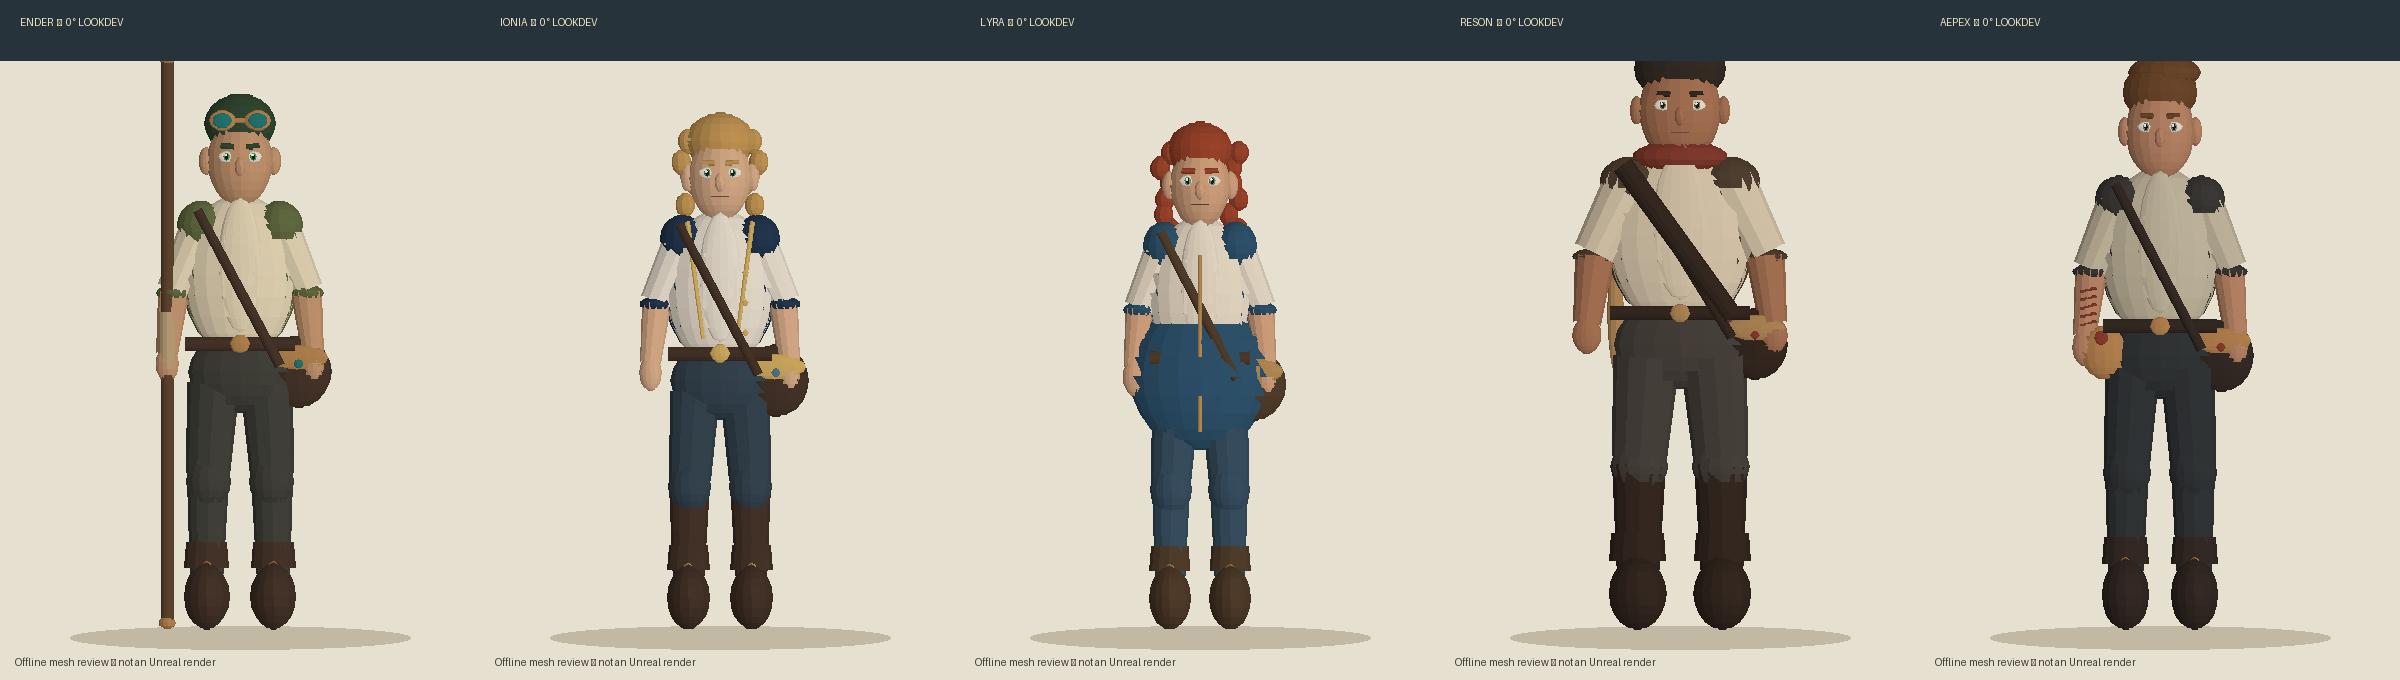
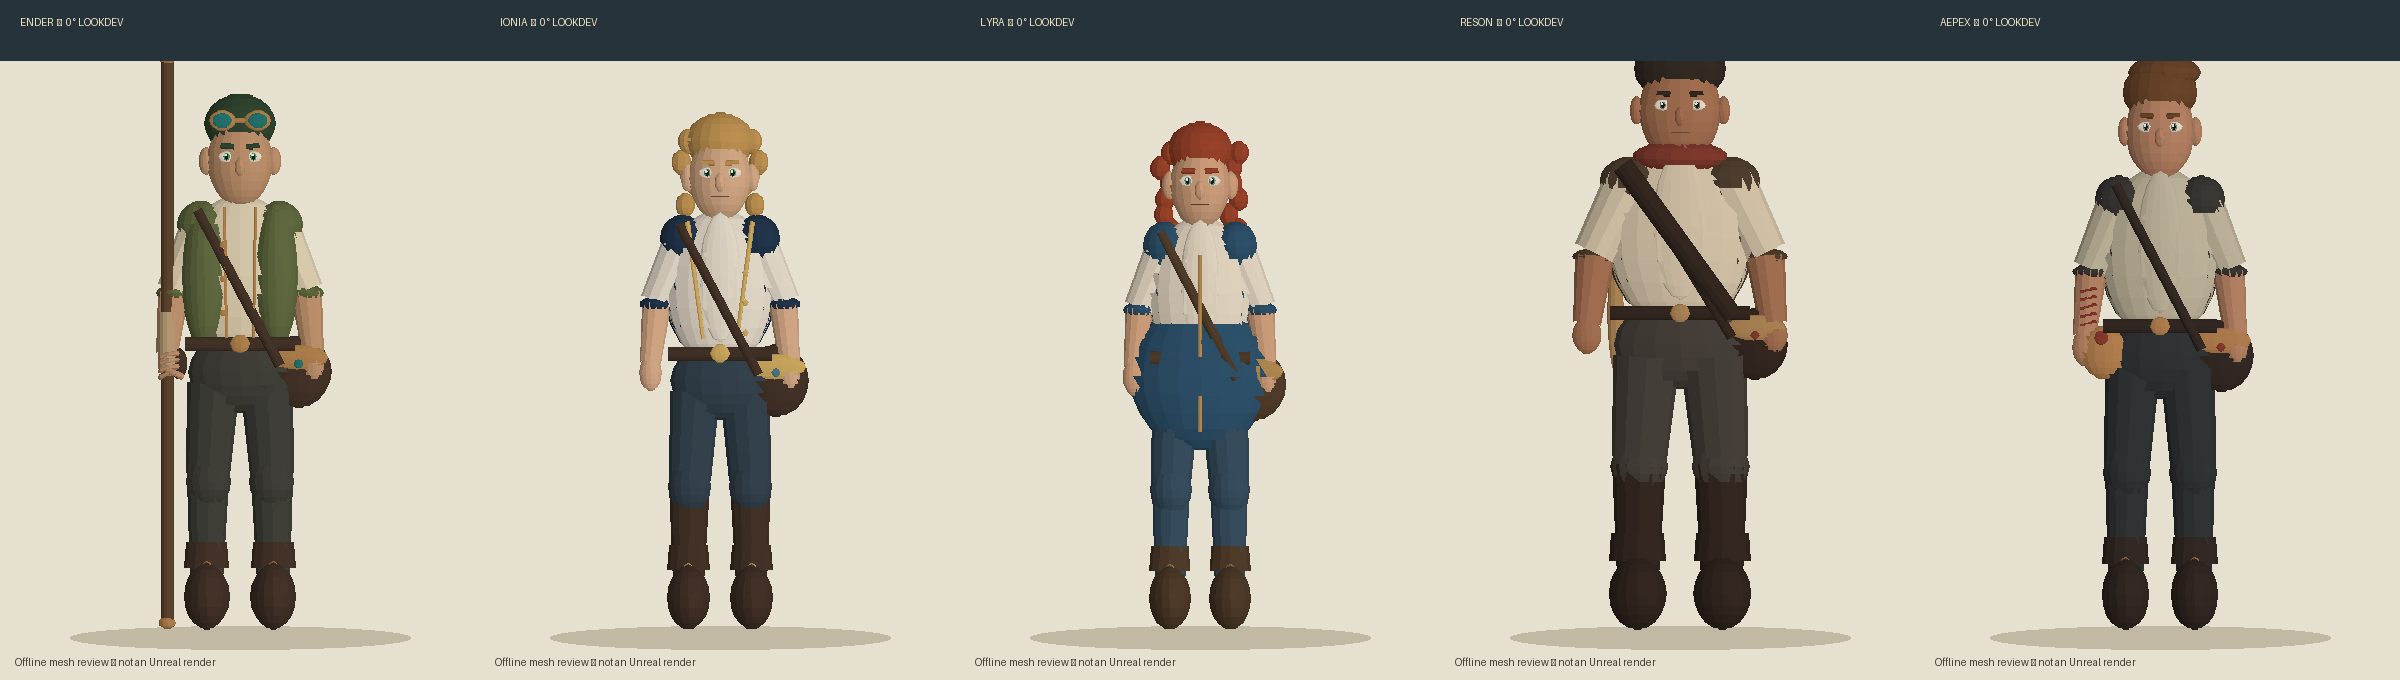
Shape Ender waistcoat and fixed staff grip study

Changed region(s): [[0.0625, 0.3088, 0.125, 0.4941], [0.0625, 0.525, 0.0938, 0.5559]]

diff --git a/unreal/ArtSource/Characters/build_cast.py b/unreal/ArtSource/Characters/build_cast.py
@@ -125,8 +125,18 @@ def make(name):
  b.ellipsoid('Left ear',(-.118*w,1.50*s,.01),(.022,.044,.026),p['skin'])
  b.ellipsoid('Right ear',(.118*w,1.50*s,.01),(.022,.044,.026),p['skin'])
  b.ellipsoid('Torso shirt',(0,1.13*s,0),(.198*w,.264*s,.105),p['shirt'],20,12)
- b.ellipsoid('Tailored outer layer',(0,1.13*s,-.024),(.205*w,.258*s,.105),p['coat'],20,12)
- b.ellipsoid('Front shirt opening',(0,1.165*s,.084),(.074*w,.215*s,.023),p['shirt'],16,10)
+ if name=='Ender':
+  # Separate front waistcoat panels expose the cream shirt and keep the back
+  # close to the body. The former single oval read as a large back shell.
+  b.ellipsoid('Fitted waistcoat back',(0,1.125*s,-.074),(.174*w,.229*s,.060),p['coat'],20,12)
+  for side,sgn in [('L',-1),('R',1)]:
+   b.ellipsoid(side+' waistcoat front',(sgn*.125*w,1.13*s,.026),(.080*w,.234*s,.101),p['coat'],20,12)
+   b.tapered(side+' waistcoat seam',(sgn*.055*w,1.35*s,.105),(sgn*.048*w,.93*s,.119),.004,.004,p['trim'])
+  for y in (1.23,1.12,1.01):
+   b.ellipsoid('Waistcoat button '+str(y),(-.06*w,y*s,.127),(.009,.009,.005),p['trim'],10,6,.75,.35)
+ else:
+  b.ellipsoid('Tailored outer layer',(0,1.13*s,-.024),(.205*w,.258*s,.105),p['coat'],20,12)
+  b.ellipsoid('Front shirt opening',(0,1.165*s,.084),(.074*w,.215*s,.023),p['shirt'],16,10)
  b.tapered('Waist belt',(-.19*w,.91*s,.086),(.19*w,.91*s,.086),.021,.021,p['boots'])
  b.ellipsoid('Belt buckle',(0,.91*s,.11),(.031,.028,.013),p['trim'],12,8,.8,.3)
  b.ellipsoid('Pelvis',(0,.82*s,0),(.18*w,.13*s,.103),p['pants'])
@@ -136,7 +146,26 @@ def make(name):
   b.tapered(side+' upper sleeve',(x,1.29*s,0),(sgn*.233*w,1.085*s,0),.069*w,.058*w,p['shirt'])
   b.ellipsoid(side+' sleeve cuff',(sgn*.233*w,1.075*s,0),(.06*w,.024,.064),p['coat'])
   b.tapered(side+' forearm',(sgn*.233*w,1.07*s,0),(sgn*.255*w,.88*s,.035),.052*w,.037*w,p['skin'])
-  b.ellipsoid(side+' hand',(sgn*.255*w,.846*s,.037),(.039*w,.058,.031),p['skin'])
+  if name=='Ender' and side=='L':
+   # A fixed grip study: the staff sits at x=-.255*w, z=.042. Separate
+   # fingers curve around its forward side instead of swallowing it inside
+   # a single mitten ellipsoid. This is not skinned or an animation pose.
+   b.ellipsoid('L gloved palm',(-.215*w,.846*s,.031),(.029*w,.049,.027),p['boots'],16,10)
+   for finger,fy in enumerate((.879,.858,.837,.816)):
+    joints=[
+     (-.218*w,fy*s,.050),(-.248*w,(fy-.002)*s,.075),
+     (-.277*w,(fy-.009)*s,.063),(-.279*w,(fy-.015)*s,.045)
+    ]
+    for k in range(len(joints)-1):
+     b.tapered('L grip finger %s segment %s'%(finger,k),joints[k],joints[k+1],.006,.006,p['skin'])
+   thumb=[
+    (-.205*w,.805*s,.052),(-.230*w,.815*s,.078),
+    (-.258*w,.829*s,.066)
+   ]
+   for k in range(len(thumb)-1):
+    b.tapered('L grip thumb segment '+str(k),thumb[k],thumb[k+1],.009,.009,p['skin'])
+  else:
+   b.ellipsoid(side+' hand',(sgn*.255*w,.846*s,.037),(.039*w,.058,.031),p['skin'])
   b.tapered(side+' thigh',(sgn*.092*w,.78*s,0),(sgn*.111*w,.49*s,0),.091*w,.075*w,p['pants'])
   b.ellipsoid(side+' knee',(sgn*.111*w,.465*s,.011),(.078*w,.082,.078),p['pants'])
   b.tapered(side+' shin',(sgn*.112*w,.47*s,0),(sgn*.116*w,.14*s,0),.072*w,.056*w,p['boots'] if name in ('Ionia','Reson') else p['pants'])

diff --git a/unreal/ArtSource/Characters/ENDER_VISUAL_REVIEW.md b/unreal/ArtSource/Characters/ENDER_VISUAL_REVIEW.md
@@ -4,8 +4,8 @@
 
 | Priority | Visible candidate finding | Required production correction and check |
 |---|---|---|
-| 1 | The torso reads as a smooth oval shell, limbs as cylinders, boots as bulbs. The approved Ender has a fitted olive waistcoat, open collar and embroidered cream sleeves, practical trousers, layered belts, laced brown boots and a youthful, slender silhouette. | Author a fitted sculpt and clothing layers with folds and seams. Compare front, side and back at the same scale as the approved full-body image, then inspect a neutral-lit UE frame and an in-scene frame. |
+| 1 | Separate olive waistcoat panels now expose the cream shirt, but they and the back still read as smooth oval forms. Limbs remain cylinders and boots remain bulbs. The approved Ender has a fitted waistcoat, open collar and embroidered sleeves, practical trousers, layered belts, laced boots and a youthful, slender silhouette. | Author a fitted sculpt and clothing layers with folds and seams. Compare front, side and back at the same scale as the approved full-body image, then inspect a neutral-lit UE frame and an in-scene frame. |
 | 2 | Hair is a single rounded cap; eyes and face are schematic. Forehead goggles are identifiable, but the approved expressive face and hair shape are absent. The model's dark green hair follows the October 30 group sheet, while the exact approved Ender appearance and written character lock say auburn/dark copper. | Resolve hair authority with the creator. Sculpt facial landmarks, hair masses and goggle straps, and create material/texture detail. Obtain an approved close-up and profile review. |
-| 3 | The full-length staff now intersects the left palm rather than floating beside it. The mitten hand does not actually grip it. The wrap is centered and ferrules exist, but the shaft, grip, satchel and strap remain simplified. | Model fingers around a correctly placed staff grip, verify hand/staff clearance and retention in front/side/back views, then skin and test draw, carry and locomotion animation in UE. |
+| 3 | The full-length staff now meets a gloved palm with four small curved fingers and a thumb visible in the offline views. Their anatomy and grasp still read as a schematic fixed pose; the shaft, wrap, ferrules, satchel and strap remain simplified. | Sculpt a believable staff grasp, verify hand/staff clearance and retention in front/side/back views, then skin and test draw, carry and locomotion animation in UE. |
 
 The geometry checker and deterministic regeneration establish that the GLB is structurally valid. They do **not** establish likeness, believable hand contact, skeletal deformation, material response or engine import. The current Windows Unreal device is offline, so there is no native import receipt, UE viewport capture, animation or gameplay acceptance. Keep this review candidate in the draft branch until those checks and creator visual acceptance are recorded.
